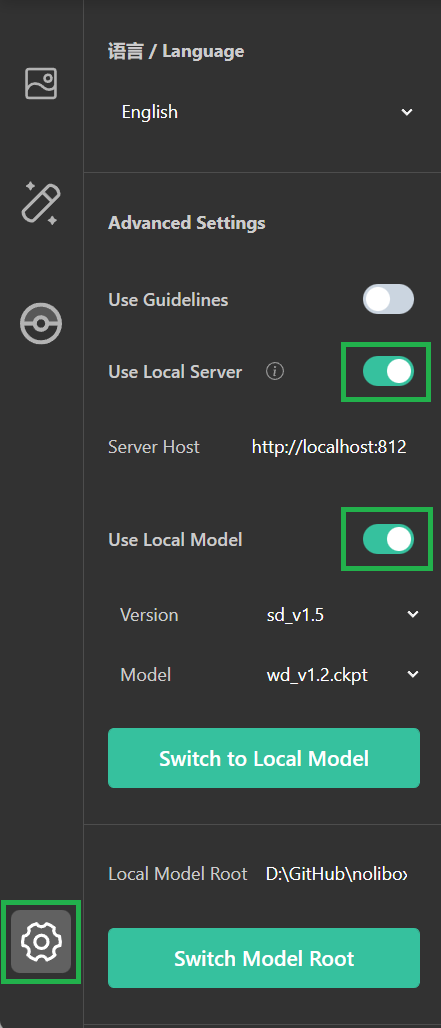
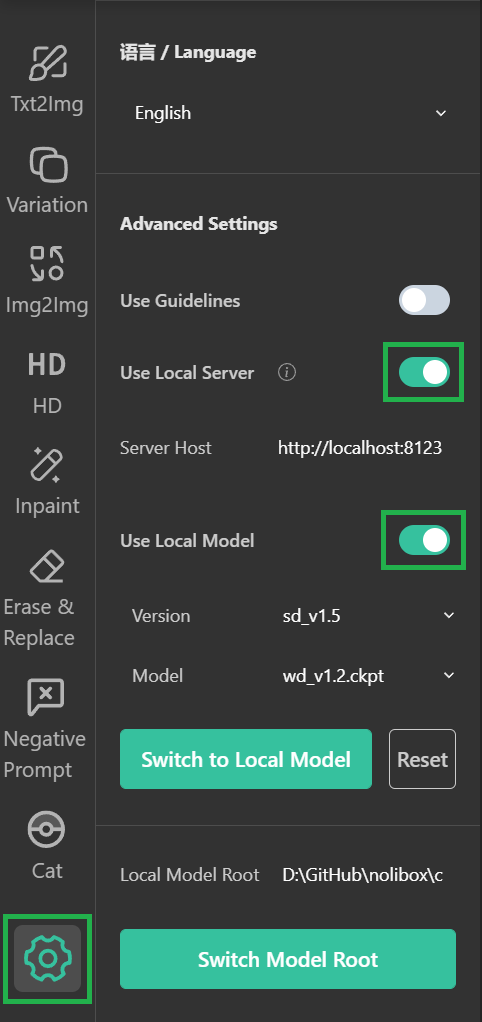
📝🚧Updated `README`

diff --git a/README.md b/README.md
@@ -471,7 +471,7 @@ This feature will be very useful if you want to use the WebUI features along wit
 
 If you only need your own checkpoint to generate images, it will be handy to choose the `sd_v1.5` as the `version`. In this case, we'll use your checkpoint by default.
 
-> This process **CANNOT** be reversed! If you want to use the original model, you'll have to restart your server. 😔
+> This process can be reversed by pressing the `Reset` button! 😉
 
 ## Textual Inversion
 
